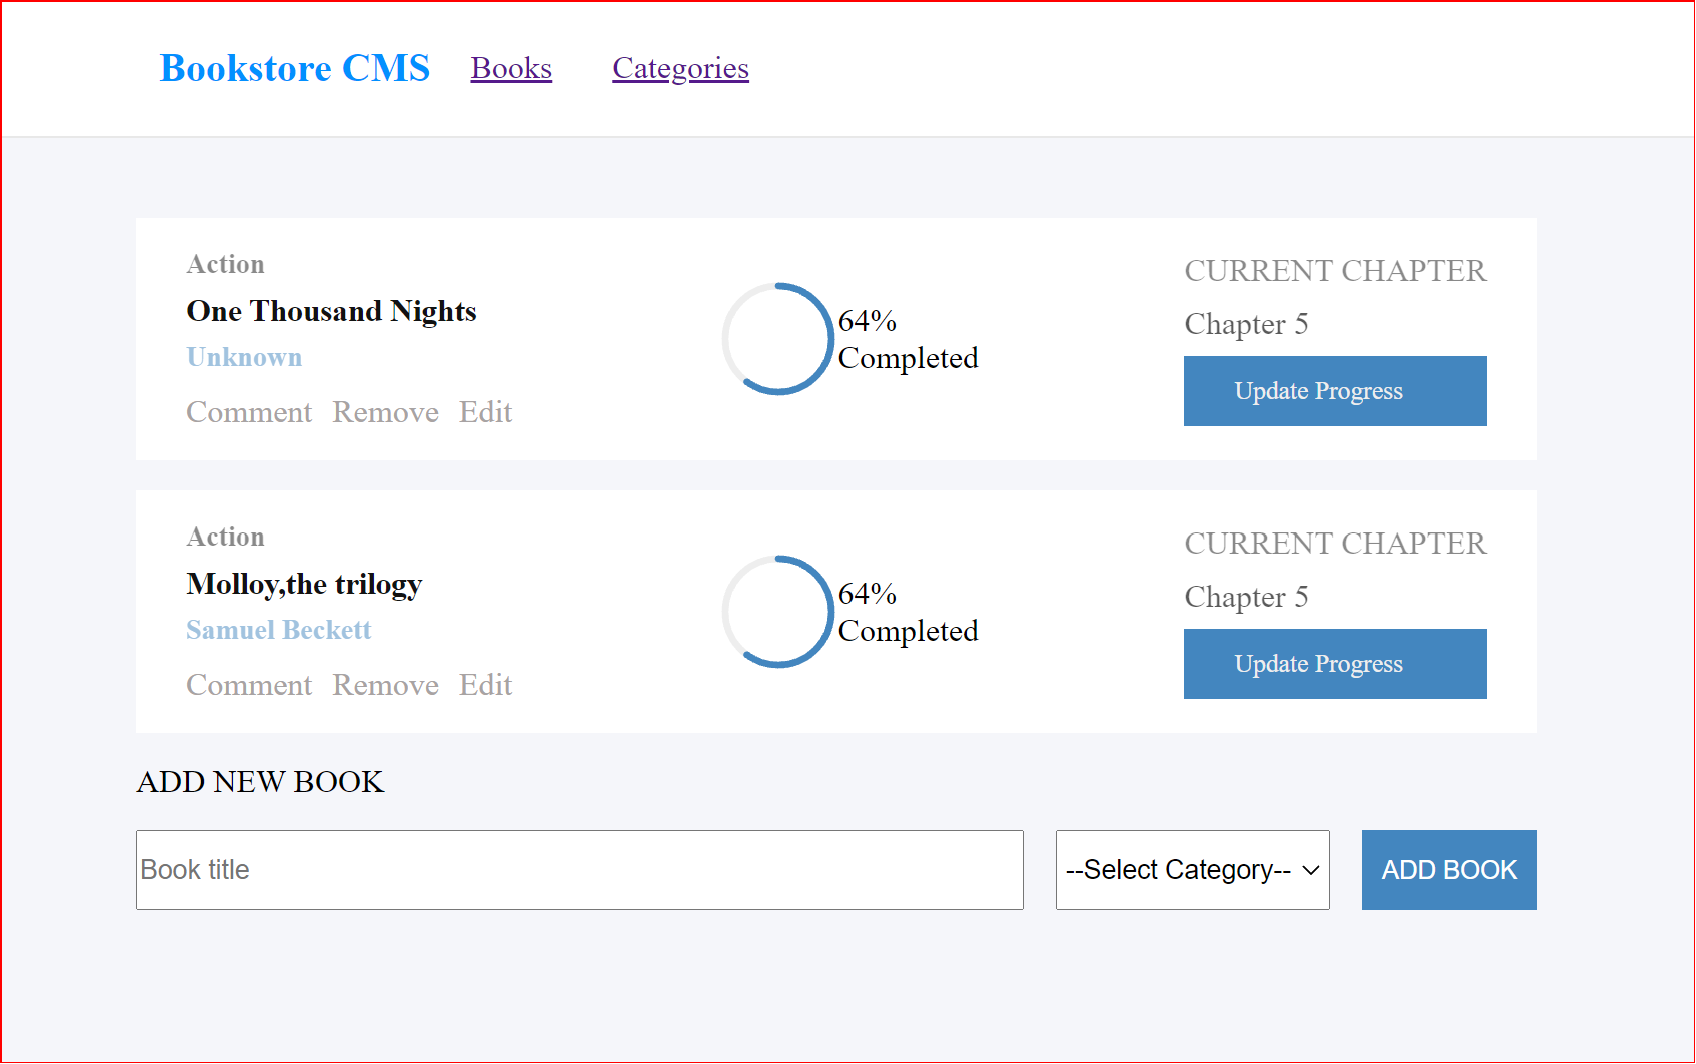
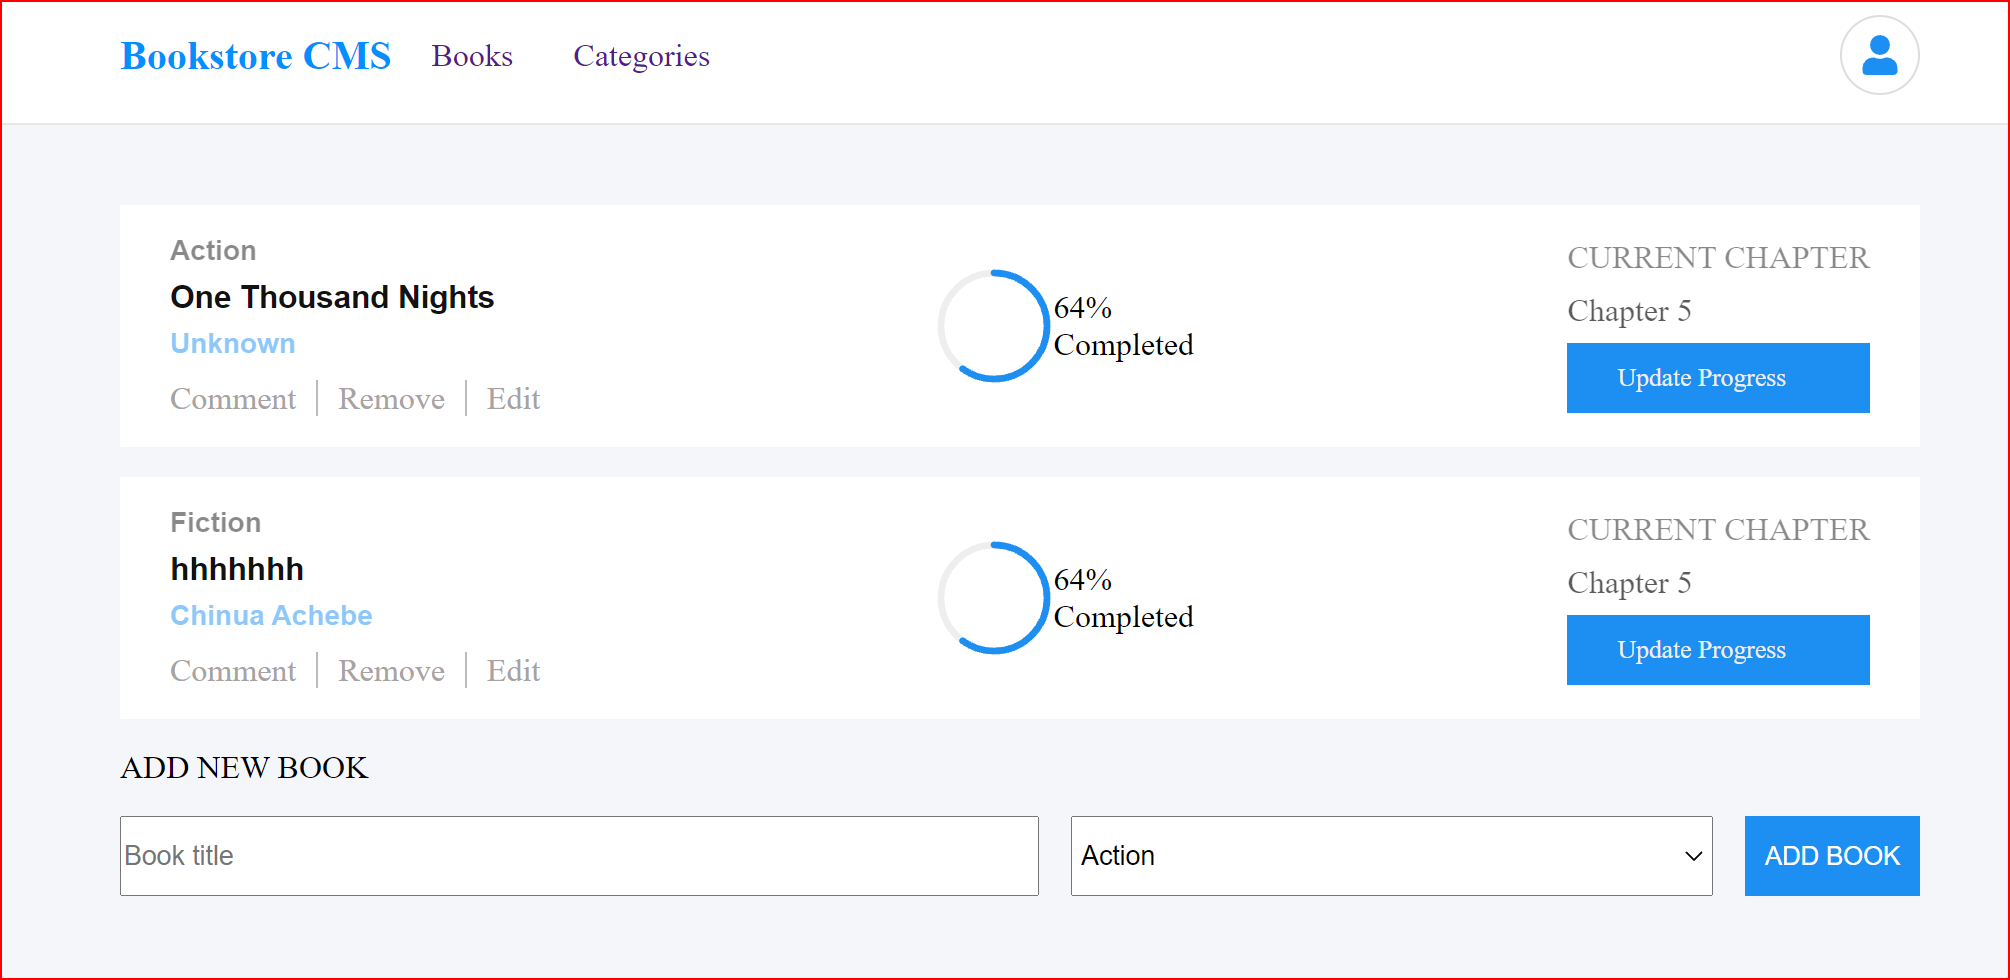
Makes required changes from reviews

diff --git a/src/components/Header.js b/src/components/Header.js
@@ -3,16 +3,18 @@ import './Header.css';
 import { Link } from 'react-router-dom';
 
 const Header = () => (
-  <div className="Header">
-    <div style={{
-      display: 'flex', alignItems: 'center', maxWidth: '700px', marginLeft: 'calc(100% - 970px)',
-    }}
-    >
-      <h1 className="Header_title">Bookstore CMS</h1>
-      <nav className="Header_nav">
-        <Link to="/" style={{ marginRight: '30px' }} className="Header_link">Books</Link>
-        <Link to="/Categories" className="Header_link">Categories</Link>
-      </nav>
+  <div className="Header_wrapper">
+    <div className="Header">
+      <div className="HeaderStyle">
+        <h1 className="Header_title">Bookstore CMS</h1>
+        <nav className="Header_nav">
+          <Link to="/" style={{ marginRight: '30px' }} className="Header_link">Books</Link>
+          <Link to="/Categories" className="Header_link">Categories</Link>
+        </nav>
+      </div>
+      <div className="Header_profile">
+        <svg height="20" width="20" aria-hidden="true" focusable="false" data-prefix="fas" data-icon="user" className="svg-inline--fa fa-user fa-w-14 Header_icon" role="img" xmlns="http://www.w3.org/2000/svg" viewBox="0 0 448 512"><path fill="#1d8ff3" d="M224 256c70.7 0 128-57.3 128-128S294.7 0 224 0 96 57.3 96 128s57.3 128 128 128zm89.6 32h-16.7c-22.2 10.2-46.9 16-72.9 16s-50.6-5.8-72.9-16h-16.7C60.2 288 0 348.2 0 422.4V464c0 26.5 21.5 48 48 48h352c26.5 0 48-21.5 48-48v-41.6c0-74.2-60.2-134.4-134.4-134.4z" /></svg>
+      </div>
     </div>
   </div>
 );

diff --git a/src/components/Header.css b/src/components/Header.css
@@ -1,15 +1,35 @@
 /* stylelint-disable font-family-no-missing-generic-family-keyword */
 
-.Header {
-  display: flex;
-
-  /* justify-content: left; */
+.Header_wrapper {
   background-color: #fff;
   height: 70px;
   line-height: 70px;
+  border-bottom: 1px solid #e8e8e8;
+}
+
+.Header {
+  display: flex;
   align-items: center;
   justify-content: space-between;
-  border-bottom: 1px solid #e8e8e8;
+  justify-content: space-between;
+  max-width: 900px;
+  margin: 0 auto;
+}
+
+.Header_profile {
+  border: 1px solid #dcdde0;
+  height: 40px;
+  width: 40px;
+  border-radius: 50%;
+  display: flex;
+  align-items: center;
+  justify-content: center;
+}
+
+.HeaderStyle {
+  display: flex;
+  align-items: center;
+  flex: 1;
 }
 
 .Header_title {
@@ -22,6 +42,15 @@
   letter-spacing: normal;
   color: #0290ff;
   margin-right: 20px;
+}
+
+.Header_link{
+  text-decoration: none;
+  color: the color;
+}
+
+.Header_icon {
+  fill: #1d8ff3;
 }
 
 .Header_avatar {

diff --git a/src/components/Book.css b/src/components/Book.css
@@ -2,14 +2,14 @@
   display: flex;
   justify-content: space-between;
   align-items: center;
-  max-width: 700px;
+  max-width: 900px;
   background-color: #fff;
   margin: 0 auto 15px auto;
   padding: 15px 25px;
 }
 
 .circle {
-  stroke: #4386bf;
+  stroke: #1d8ff3;
   fill: none;
   stroke-width: 2;
   stroke-linecap: round;
@@ -44,17 +44,23 @@
 }
 
 .Book_author {
-  color: #4386bf;
+  color: #1d8ff3;
   margin-bottom: 10px;
 }
 
 .Book_action-btn {
   color: #a8a3a3;
   cursor: pointer;
+  border-right: 1px solid #bbb;
+  padding-right: 10px;
+}
+
+.Book_action-btn:last-child {
+  border-right: none;
 }
 
 .Book_update-progress {
-  background-color: #4386bf;
+  background-color: #1d8ff3;
   color: #eee;
   font-size: 0.8rem;
   margin-top: 7px;

diff --git a/src/components/Books.js b/src/components/Books.js
@@ -29,7 +29,7 @@ const Books = () => {
 
           <input className="Books_input" type="text" placeholder="Book title" onChange={(e) => setTitle(e.target.value)} />
           <select className="Books_select" name="" id="" onChange={(e) => setCategory(e.target.value)}>
-            <option value="">--Select Category--</option>
+            <option value="">Action</option>
             <option value="Fiction">Fiction</option>
             <option value="Action">Action</option>
             <option value="Romance">Romance</option>

diff --git a/src/components/Books.css b/src/components/Books.css
@@ -1,5 +1,5 @@
 .Books_form {
-  max-width: 700px;
+  max-width: 900px;
   margin: 0 auto;
 }
 
@@ -17,13 +17,17 @@
 }
 
 .Books_select {
+  flex: 0.7;
+  height: 40px;
+  line-height: 40px;
   margin-right: 1rem;
+  
 }
 
 .Books_btn {
   padding: 0 10px;
   font-size: 0.8rem;
-  background-color: #4386bf;
+  background-color: #1d8ff3;
   color: #fff;
   border: none;
 }
